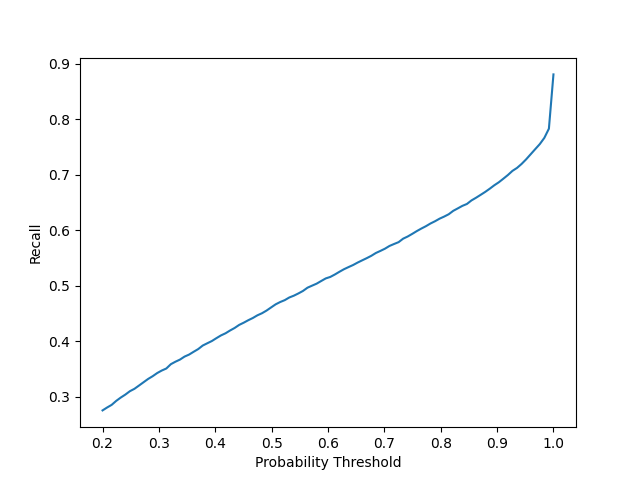
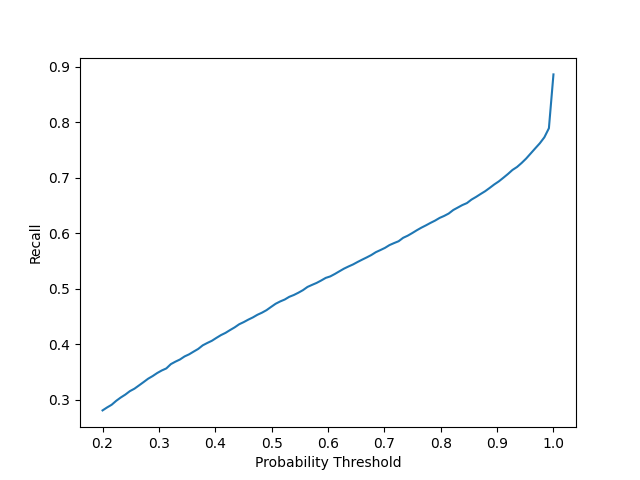
Works with new data

diff --git a/stich_in_time_comparison/paper_comparison.py b/stich_in_time_comparison/paper_comparison.py
@@ -30,10 +30,9 @@ noob_person_absolute_path = r"C:\Users\Arik Drori\Desktop\Year3+\NLP\FinalProjec
 
 
 for i, thresh in enumerate(threshold_array):
-    directory = r"D:\Downloads\mini_GPT\mini_GPT"
     all_probs = []
     all_labels = []
-    for root, dirs, files in os.walk(directory):
+    for root, dirs, files in os.walk(noob_person_absolute_path):
         for file in files:
             file_path = os.path.join(root, file)
             data = None
@@ -43,12 +42,12 @@ for i, thresh in enumerate(threshold_array):
 
             logit_windows, labels_windows = create_windows(data, topk, winsize, stride)
 
-            entity = os.path.basename(file_path).replace("_data.pkl", "")
-            with open(os.path.join(noob_person_absolute_path, f"{entity}_gpt-4o-mini-2024-07-18_300_w_chosen_token_and_concepts.pkl"), "rb") as f:
-                dat2 = pickle.load(f)
-                dat2['chosen_token_prob2'] = dat2['chosen_token_prob'].unsqueeze(1)
-            prob_windows, concept_windows = create_windows(dat2, topk, winsize, stride, logit_key_name="chosen_token_prob2",
-                                                           label_key_name='concept_words')
+            # entity = os.path.basename(file_path).replace("_data.pkl", "")
+            # with open(os.path.join(noob_person_absolute_path, f"{entity}_gpt-4o-mini-2024-07-18_300_w_chosen_token_and_concepts.pkl"), "rb") as f:
+            #     dat2 = pickle.load(f)
+            data['chosen_token_prob2'] = data['chosen_token_prob'].unsqueeze(1)
+            prob_windows, concept_windows = create_windows(data, topk, winsize, stride, logit_key_name="chosen_token_prob2",
+                                                            label_key_name='concept_words')
             prob_windows = prob_windows.squeeze(2)
             for probs, labels, concepts in zip(prob_windows, labels_windows, concept_windows):
                 all_probs.append(do_thing(probs, concepts))
